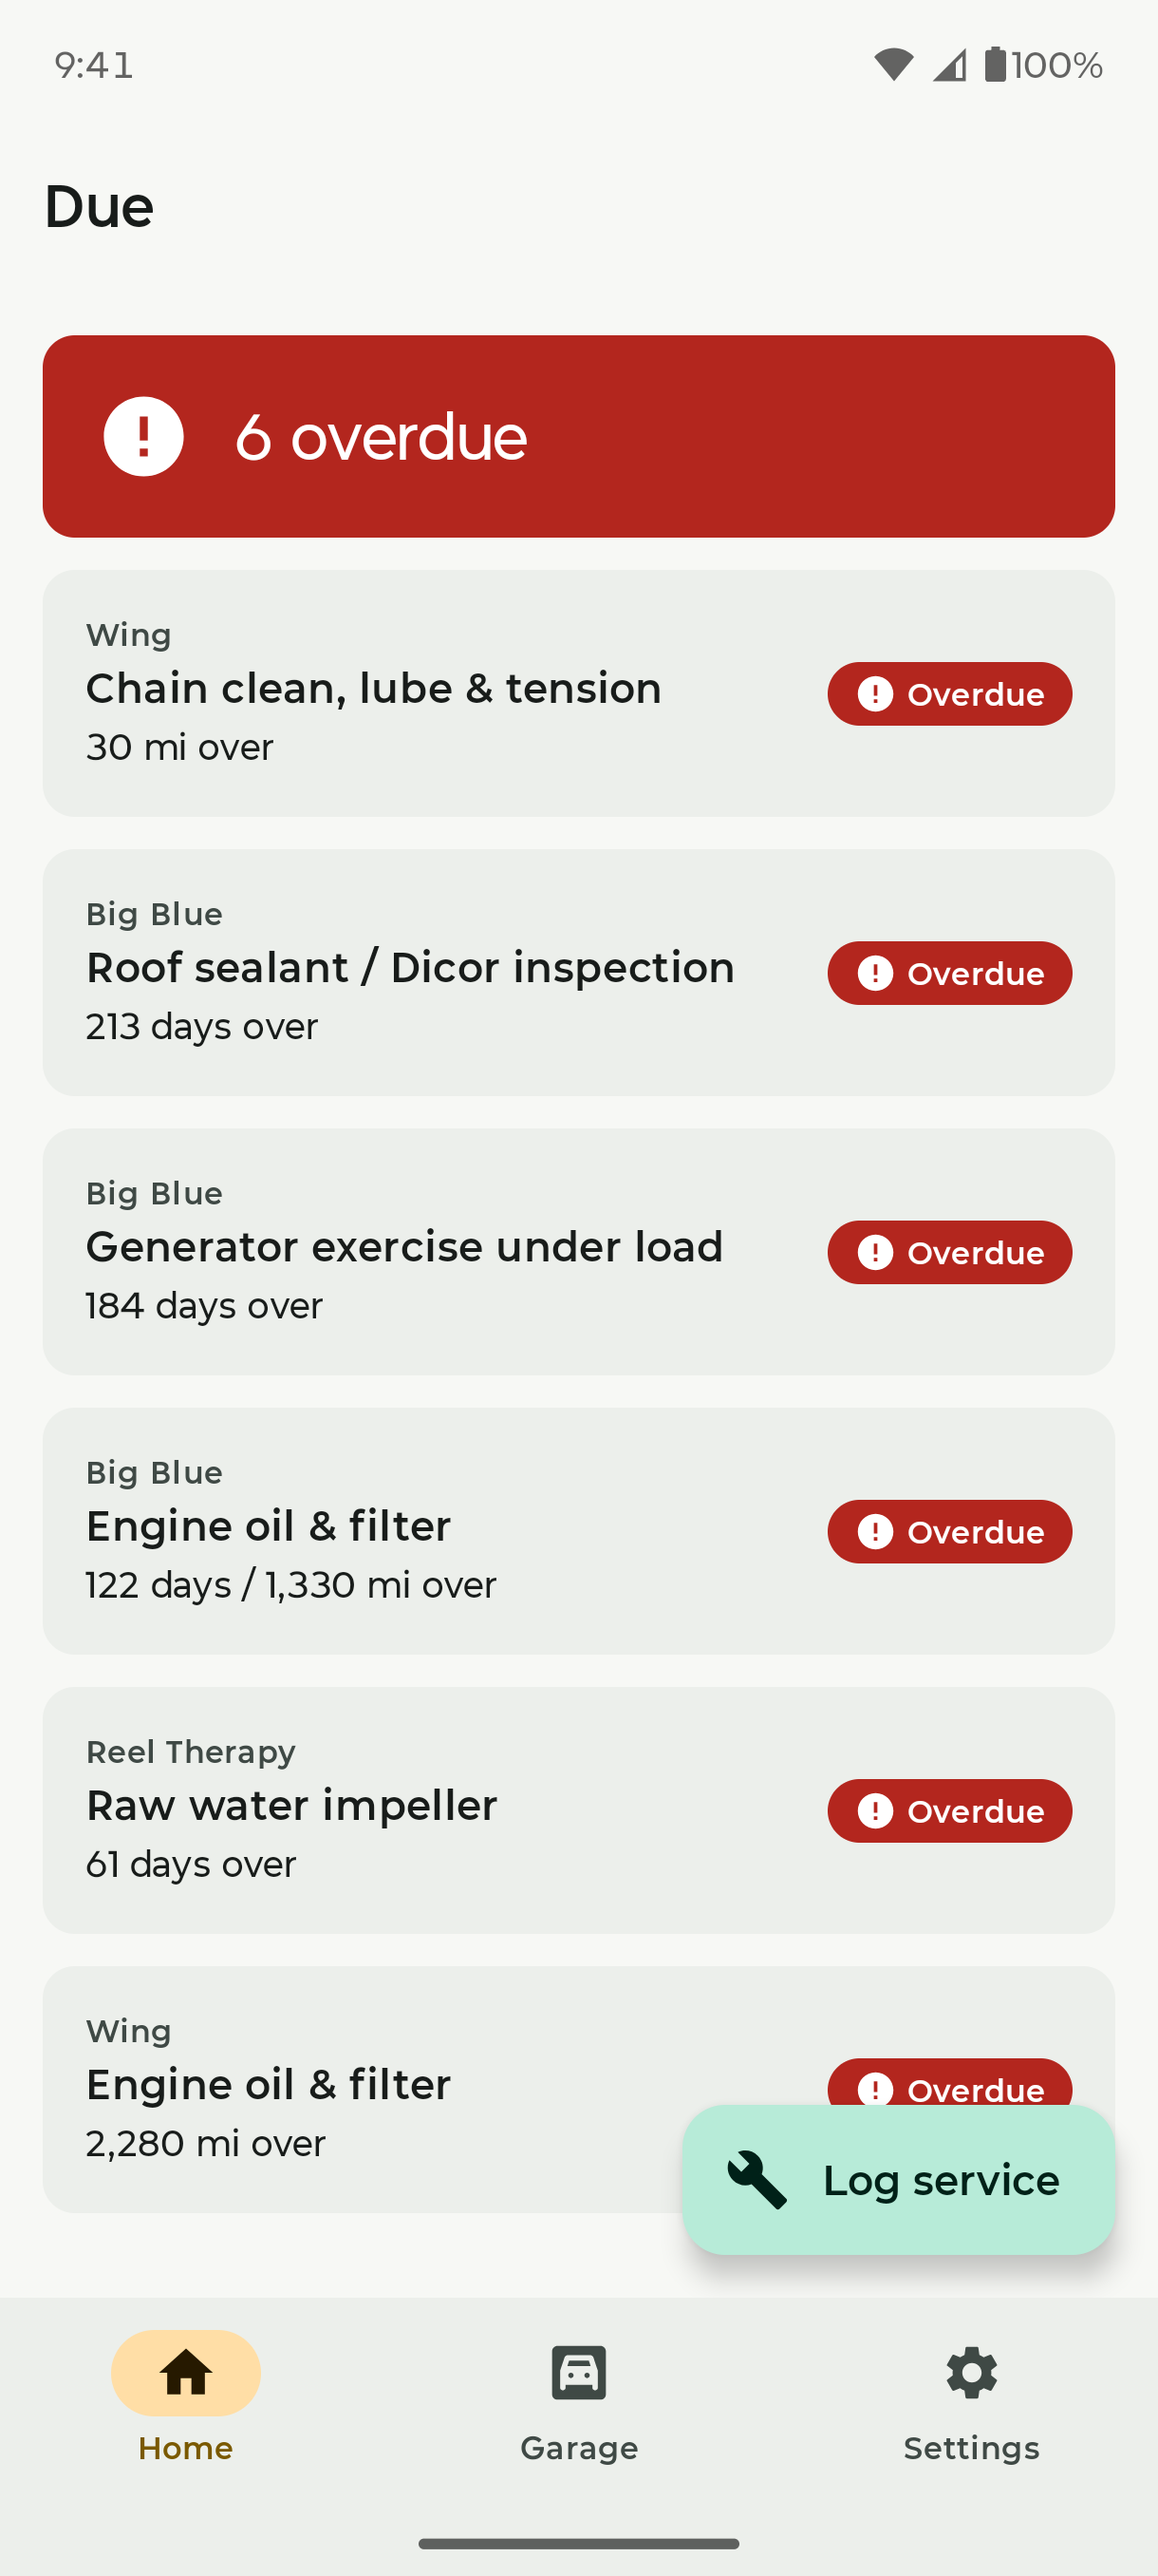
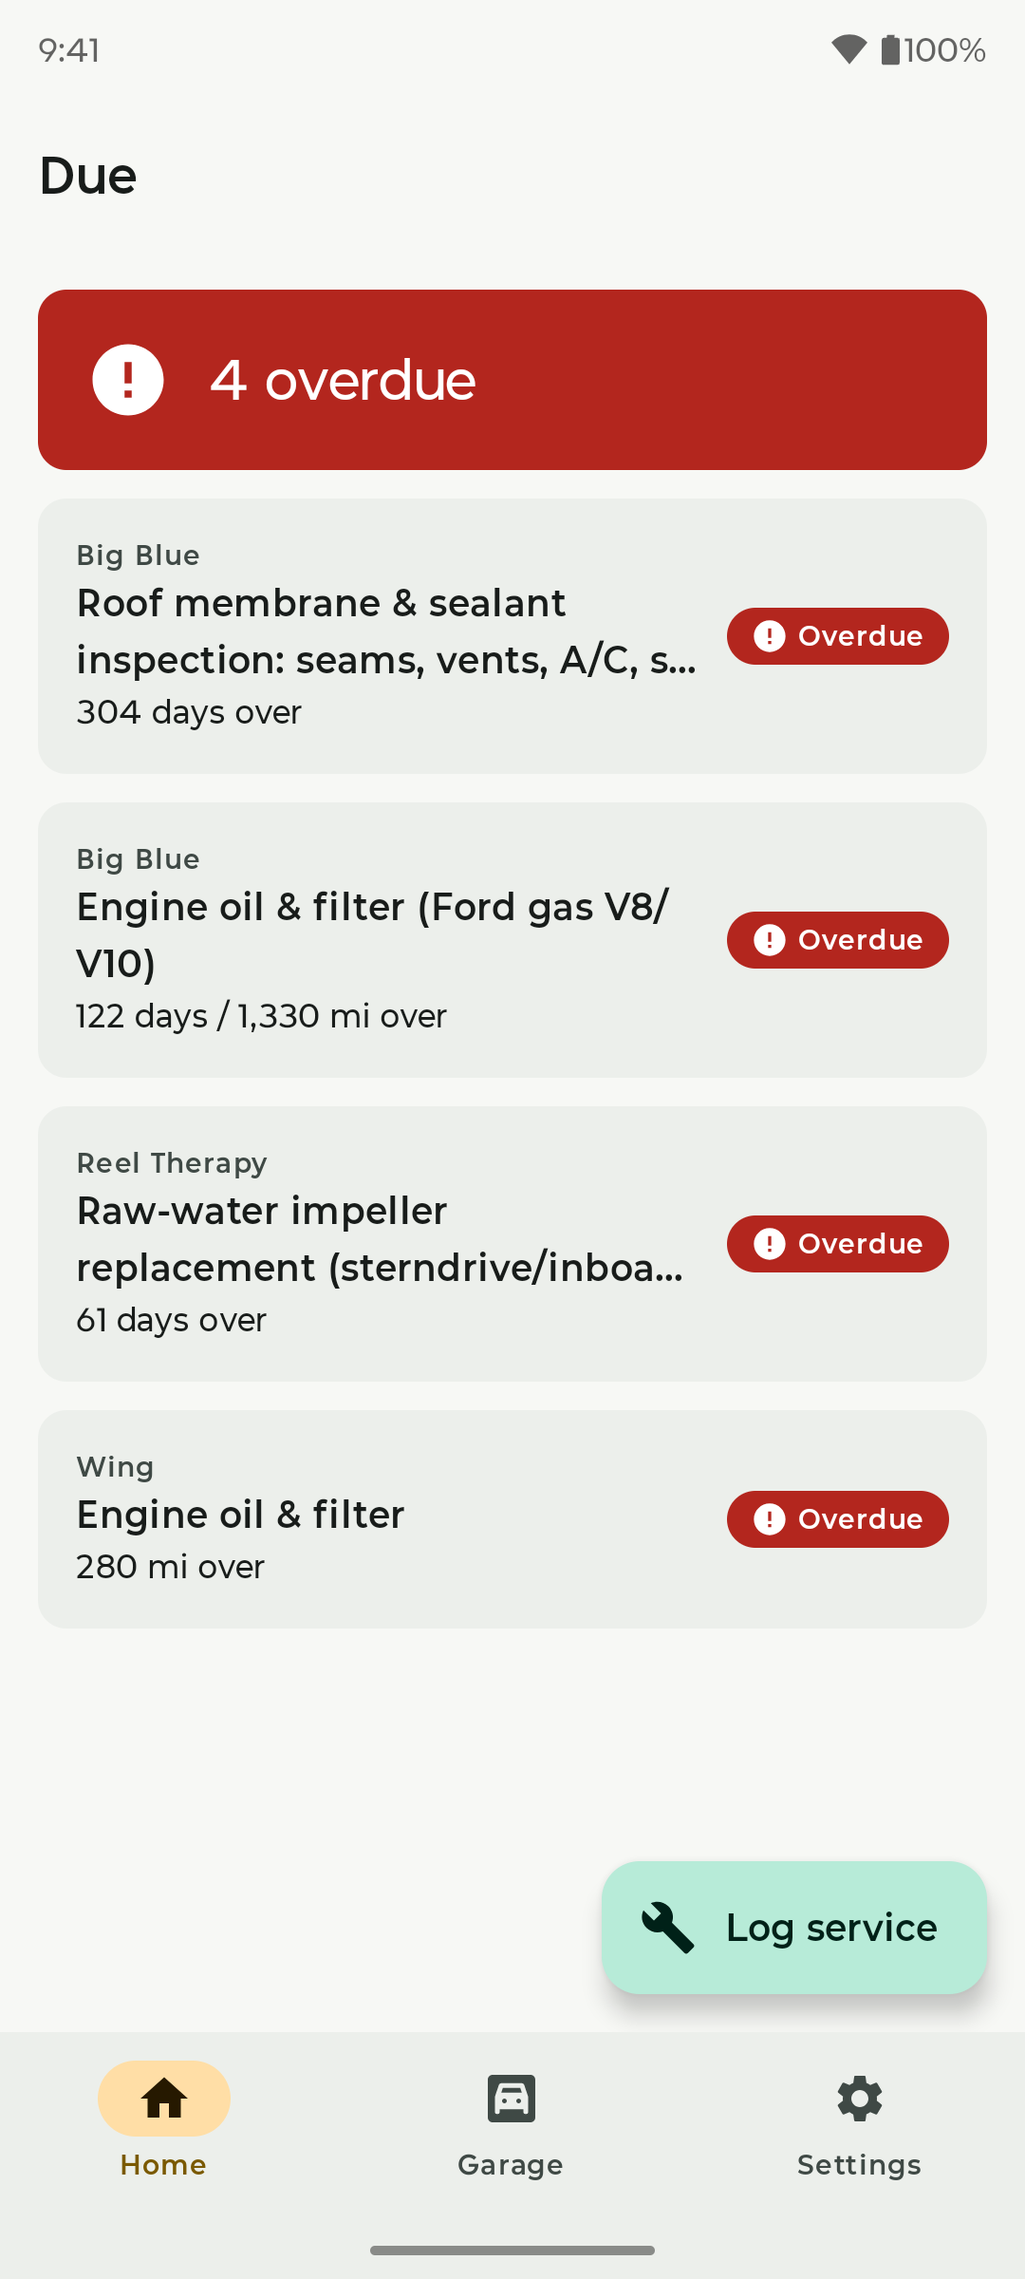
Retake store screenshots; Play Console guide
Eight new screenshots (home, schedule, task detail, log service, VIN decode, costs,
vehicle types, Pro) plus 1200x2400 Play copies. Demo garage now picks tasks through the
real setup answers and uses check-digit-valid VINs. PLAY-CONSOLE-GUIDE.md lists every
Play Console field with a paste-ready plain-text description.

diff --git a/app/src/debug/java/dev/dreamz/weekendfleet/DebugDataReceiver.kt b/app/src/debug/java/dev/dreamz/weekendfleet/DebugDataReceiver.kt
@@ -1,5 +1,8 @@
 package dev.dreamz.weekendfleet
 
+import dev.dreamz.weekendfleet.domain.library.LibraryMatcher
+import dev.dreamz.weekendfleet.domain.library.SetupEvaluator
+import dev.dreamz.weekendfleet.domain.library.isOfferable
 import android.content.BroadcastReceiver
 import android.content.Context
 import android.content.Intent
@@ -88,9 +91,13 @@ class DebugDataReceiver : BroadcastReceiver() {
         fun ago(months: Long, days: Long = 0) = LocalDate.now(zone).minusMonths(months).minusDays(days).atTime(10, 0)
             .atZone(zone).toInstant().toEpochMilli()
 
-        suspend fun vehicle(v: Vehicle, n: Int): Vehicle {
-            val ids = repo.templatesFor(v.vehicleType).take(n).map { it.id }.toSet()
-            return repo.createVehicle(v, ids)
+        // Tasks picked the way Setup picks them for a real owner: answers -> recommended, offerable only.
+        val setup = repo.setupQuestions()
+        suspend fun vehicle(v: Vehicle, answers: Map<String, Set<String>>): Vehicle {
+            val result = SetupEvaluator.evaluate(setup, v.vehicleType, answers)
+            val ids = LibraryMatcher.match(repo.templatesFor(v.vehicleType), v.vehicleType, result).recommended
+                .filter { it.isOfferable(v) }.map { it.id }.toSet()
+            return repo.createVehicle(v.copy(setupAnswers = SetupEvaluator.encodeAnswers(answers)), ids)
         }
         suspend fun log(v: Vehicle, title: String, area: Area, at: Long, miles: Double? = null, eng: Double? = null,
                         gen: Double? = null, cost: Double? = null, vendor: String? = null, taskTitle: String? = null) {
@@ -100,8 +107,11 @@ class DebugDataReceiver : BroadcastReceiver() {
         }
 
         val rv = vehicle(Vehicle(name = "Big Blue", vehicleType = VehicleType.MOTORHOME, year = 2018, make = "Winnebago",
-            model = "Vista 31BE", vinOrHin = "1F66F5DY8J0A08421", purchaseDate = day("2022-04-10"), purchaseMeter = 38_400.0,
-            currentMiles = 61_230.0, currentGeneratorHours = 812.0, createdAt = 0, updatedAt = 0), 14)
+            model = "Vista 31BE", vinOrHin = "1F66F5DY4J0A08421", purchaseDate = day("2022-04-10"), purchaseMeter = 38_400.0,
+            currentMiles = 61_230.0, currentGeneratorHours = 812.0, createdAt = 0, updatedAt = 0), mapOf(
+            "mh_chassis" to setOf("ford_f53"), "rv_generator" to setOf("gas"), "rv_slides" to setOf("in_wall"),
+            "rv_water_heater" to setOf("suburban"), "rv_fridge" to setOf("absorption"), "rv_propane" to setOf("built_in"),
+            "rv_batteries" to setOf("flooded"), "rv_equipment" to setOf("awning", "leveling")))
         log(rv, "Roof sealant inspection & touch-up", Area.ROOF_SEALS, ago(13), miles = 52_100.0, cost = 64.0, vendor = "Self", taskTitle = "roof")
         log(rv, "Chassis oil & filter", Area.ENGINE, ago(10), miles = 54_900.0, cost = 89.5, vendor = "Self", taskTitle = "oil")
         log(rv, "Generator service", Area.ELECTRICAL, ago(7), miles = 57_300.0, gen = 760.0, cost = 142.0, vendor = "Camping World", taskTitle = "generator")
@@ -114,13 +124,18 @@ class DebugDataReceiver : BroadcastReceiver() {
             createdAt = System.currentTimeMillis()))
 
         val boat = vehicle(Vehicle(name = "Reel Therapy", vehicleType = VehicleType.BOAT_POWER, year = 2015, make = "Sea Ray",
-            model = "SPX 210", vinOrHin = "SERV4521K415", currentEngineHours = 418.0, createdAt = 0, updatedAt = 0), 10)
+            model = "SPX 210", vinOrHin = "SERV4521K415", currentEngineHours = 418.0, createdAt = 0, updatedAt = 0), mapOf(
+            "pb_propulsion" to setOf("sterndrive"), "pb_cooling" to setOf("raw"), "pb_size" to setOf("no"),
+            "marine_water" to setOf("salt"), "marine_coastal" to setOf("yes"), "marine_storage" to setOf("trailer"),
+            "trailer_brakes" to setOf("surge"), "trailer_hubs" to setOf("ez_lube"), "marine_onboard" to setOf("freshwater")))
         log(boat, "Impeller replacement", Area.ENGINE, ago(14), eng = 330.0, cost = 185.0, vendor = "Marina Mechanics", taskTitle = "impeller")
         log(boat, "Lower unit oil", Area.DRIVETRAIN, ago(9), eng = 371.0, cost = 45.0, vendor = "Self", taskTitle = "gear")
         log(boat, "Hull zincs", Area.HULL, ago(4), eng = 402.0, cost = 62.0, vendor = "Self", taskTitle = "zinc")
 
         val bike = vehicle(Vehicle(name = "Wing", vehicleType = VehicleType.MOTORCYCLE, year = 2019, make = "Honda",
-            model = "Gold Wing Tour", vinOrHin = "JH2SC7900KK100733", currentMiles = 18_950.0, createdAt = 0, updatedAt = 0), 9)
+            model = "Gold Wing Tour", vinOrHin = "JH2SC7901KK100733", currentMiles = 18_950.0, createdAt = 0, updatedAt = 0), mapOf(
+            "mc_brand" to setOf("other"), "mc_drive" to setOf("shaft"), "mc_cooling" to setOf("liquid"),
+            "mc_clutch" to setOf("hydraulic"), "mc_fuel" to setOf("efi")))
         log(bike, "Oil & filter", Area.ENGINE, ago(8), miles = 14_200.0, cost = 74.0, vendor = "Self", taskTitle = "oil")
         log(bike, "Rear tire", Area.TIRES_WHEELS, ago(2), miles = 17_600.0, cost = 289.0, vendor = "Cycle Gear", taskTitle = "tire")
         repo.updateMeters(bike.id, 19_480.0, null, null)

diff --git a/docs/PLAY-CONSOLE-GUIDE.md b/docs/PLAY-CONSOLE-GUIDE.md
@@ -1,0 +1,124 @@
+# WeekendFleet — Play Console guide
+
+Everything Play Console asks for, in the order it asks. Files named here are in this kit.
+
+## 1. Payments profile (needed to sell Pro)
+
+Settings › Payments profile: your legal name and address, a bank account for payouts, and US tax
+info (W-9, uses your SSN).
+
+## 2. Create app
+
+| Field | Answer |
+|---|---|
+| App name | WeekendFleet |
+| Default language | English (United States) |
+| App or game | App |
+| Free or paid | **Free** (Pro is sold in the app). A free app can never be switched to paid. |
+| Declarations | Tick the Developer Program Policies and US export laws boxes |
+
+## 3. Main store listing
+
+| Field | What to use |
+|---|---|
+| App name (30 max) | `WeekendFleet: Maintenance Log` |
+| Short description (80 max) | `Service log & reminders for RVs, boats, motorcycles & ATVs.` |
+| Full description | Below, under "Full description" |
+| App icon (512×512) | `store-listing/icon-512.png` |
+| Feature graphic (1024×500) | `store-listing/feature-graphic.png` |
+| Phone screenshots | `store-listing/screenshots/1-home.png` … `8-pro.png`, in that order |
+
+### Full description
+
+Paste this as-is (plain text; Play doesn't read Markdown):
+
+```text
+Car maintenance apps don't fit an RV, a boat or a dirt bike. They won't take a roof-seal inspection, a generator service or hull zincs, and they only count miles. This one was built for rigs.
+
+Schedules that already know your machine
+Pick motorhome, travel trailer / fifth wheel, powerboat, sailboat, motorcycle, ATV / UTV or personal watercraft and start with a ready-made schedule: roof and seals, wheel-bearing repacks, generator exercise and service, impellers, lower-unit oil, winterization and more. Untick what doesn't apply, edit any interval, add your own tasks.
+
+Reminders by date OR miles/hours — whichever comes first
+Every task tracks time, distance, engine hours or generator hours. See what's overdue and what's coming up at a glance, and get a notification on the day — with quiet hours, snooze, and a nudge if something slips past due.
+
+Log every job in seconds
+One tap from the home screen: what you did, the readings, cost, who did it (you or the shop), parts used and notes. The schedule resets itself from the work you log.
+
+VIN and HIN, no typing
+Scan the VIN barcode or plate, or a boat's hull number, with your camera. Tap Decode to fill in year, make and model from NHTSA's free VIN decoder. Boat HINs are decoded right on your phone.
+
+Parts, torque specs and fluids
+Keep part numbers, torque values and fluid specs with the task they belong to, so the next oil change doesn't start with a forum search.
+
+Know what it costs
+Totals by month and year, a per-area breakdown and your biggest spends.
+
+Private by design
+Works offline. No account, no sign-in, no ads, no analytics. Your data stays on your phone and only leaves when you export it, or when you tap Decode to look up a VIN with NHTSA's free decoder.
+
+Pro — one payment, no subscription
+The free version covers one vehicle completely. Pro ($9.99 once) adds unlimited vehicles, photos and receipts, and export to a backup file or spreadsheet.
+```
+
+## 4. Store settings
+
+| Field | Answer |
+|---|---|
+| Category | Auto & Vehicles |
+| Tags | Pick up to 5 that fit, e.g. vehicle maintenance, RV, boating |
+| Contact email | jaydoege8969@gmail.com |
+| Website | Leave blank |
+
+## 5. App content (Policy › App content)
+
+| Item | Answer |
+|---|---|
+| Privacy policy | https://jeremydoege89.github.io/maintenance-tracker-privacy/ |
+| App access | All functionality is available without special access (no login) |
+| Ads | No, the app doesn't contain ads |
+| Content rating | Email: jaydoege8969@gmail.com. Category: "Utility, Productivity, Communication, or Other". Answer No to violence, sexuality, language, drugs, gambling, user interaction and sharing location. Digital purchases: Yes (Pro). Expect Everyone / PEGI 3. |
+| Target audience | **18 and over** (avoids the Families policy) |
+| Advertising ID | **No** (the release build doesn't request it) |
+| News app | No |
+| Health / financial features / government | No / None / No |
+| Data safety | See section 6 |
+
+## 6. Data safety
+
+| Question | Answer |
+|---|---|
+| Does the app collect or share any required user data types? | See the two decisions below; with neither declared: **No** |
+| Is data encrypted in transit? | Yes (Play Billing and NHTSA calls are HTTPS) |
+| Can users request deletion? | Yes: Settings › Data › Delete all data, or uninstall. Nothing is kept on a server. |
+
+**Your two decisions** (details in `policy/data-safety.md`):
+
+1. **VIN decode.** A VIN leaves the phone when the user taps Decode (sent to NHTSA). Either answer
+   "no data collected", or declare it: *App info and performance › Other app-generated data*
+   (or *Personal info › Other info*), shared, optional, for app functionality, encrypted in transit.
+2. **ML Kit (camera scan).** Images and scanned text never leave the phone, but Google's ML Kit
+   may send its own diagnostics. Declare whatever Google's current page lists for the bundled
+   barcode and text-recognition APIs:
+   developers.google.com/ml-kit/android-data-disclosure
+
+## 7. Pro product (Monetize › Products › In-app products)
+
+| Field | Answer |
+|---|---|
+| Product ID | `mt_pro_lifetime` (must match exactly) |
+| Name | WeekendFleet Pro |
+| Description | Unlimited vehicles, photos and receipts, and backup and export. One payment. |
+| Price | $9.99 (Play converts other countries) |
+| Status | Active |
+
+## 8. Testing and release
+
+1. **App integrity:** accept Play App Signing (Google holds the app signing key).
+2. **Settings › License testing:** add your Google account, so test purchases of Pro are free.
+3. **Internal testing:** create a release, upload `release/app-release.aab`, install it from the
+   Play link on your phone, and test buying, cancelling and restoring Pro.
+4. **Closed testing:** promote the release, add 12+ testers by email or Google Group, countries
+   US, Canada, UK, Australia. Send testers `docs/WeekendFleet-Tester-Invite.pdf`.
+5. **After 14 days** with 12+ testers opted in: Dashboard › Apply for production access.
+
+Package name: `dev.dreamz.weekendfleet` (permanent after the first upload). Version 1.0.0 (code 6).

diff --git a/docs/play-listing.md b/docs/play-listing.md
@@ -18,6 +18,8 @@ Privacy policy: https://jeremydoege89.github.io/maintenance-tracker-privacy/
 
 ## Full description (4,000 chars max)
 
+Paste-ready plain-text version (no Markdown, no hard wraps): `PLAY-CONSOLE-GUIDE.md` §3.
+
 > Car maintenance apps don't fit an RV, a boat or a dirt bike. They won't take a roof-seal
 > inspection, a generator service or hull zincs, and they only count miles. This one was built
 > for rigs.
@@ -36,6 +38,10 @@ Privacy policy: https://jeremydoege89.github.io/maintenance-tracker-privacy/
 > **Log every job in seconds**
 > One tap from the home screen: what you did, the readings, cost, who did it (you or the shop),
 > parts used and notes. The schedule resets itself from the work you log.
+>
+> **VIN and HIN, no typing**
+> Scan the VIN barcode or plate, or a boat's hull number, with your camera. Tap Decode to fill in
+> year, make and model from NHTSA's free VIN decoder. Boat HINs are decoded right on your phone.
 >
 > **Parts, torque specs and fluids**
 > Keep part numbers, torque values and fluid specs with the task they belong to, so the next
@@ -73,10 +79,16 @@ Debug builds load the demo garage with
 `adb shell am broadcast -n dev.dreamz.weekendfleet/.DebugDataReceiver -a seed_demo`
 (back up first: `-a export_to --es name me.zip`, restore with `-a import_from --es name me.zip`).
 
-1. Home: due-soon dashboard with overdue and due-soon items
-2. Vehicle overview with photo and meter quick-update
-3. Schedule tab with a "whichever first" due line
-4. Quick-add sheet mid-entry
-5. Task detail with baseline / due and "Mark complete"
-6. Costs tab with the per-area chart
-7. Settings › Data export + the Pro comparison table
+Retaken 2026-10-06 on the moto g stylus (1080×2400, light theme, clean status bar). Play copies in
+`screenshots/play/` are 1200×2400 (Play needs at most 2:1; edges extended). Upload them in this order:
+
+1. Home: overdue tasks across the whole garage
+2. Schedule (All tasks): "whichever first" intervals, grouped by status and area
+3. Task detail: due line, Mark complete, "Why this interval?" with source
+4. Log service sheet mid-entry (task, readings, cost, Done by)
+5. Add motorcycle: VIN decoded into year, make and model
+6. Costs: this year, by area, biggest spends
+7. Vehicle types picker (all seven, new ATV icon)
+8. Pro comparison (paywall)
+
+`screenshots/extra-vehicle-overview.png` is a spare (Play takes at most 8 phone screenshots).
